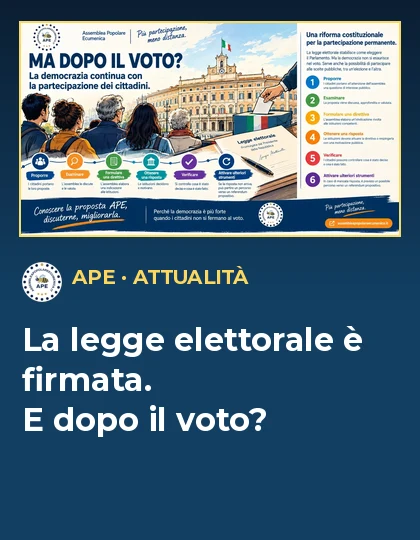
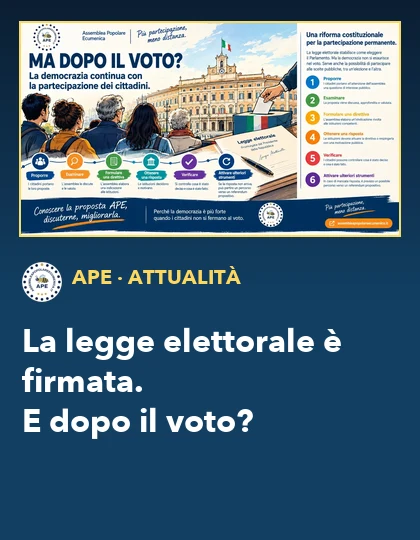
Attualità: chi controlla davvero il potere? (fonti verificate, miniatura del generatore)

Changed region(s): [[0.0619, 0.5926, 0.8667, 0.8296], [0.1857, 0.4741, 0.5881, 0.5333]]

diff --git a/rete.html b/rete.html
@@ -287,6 +287,6 @@ p,li{text-wrap:pretty}
 </div>
 </article>
 </main>
-<footer class="ape-piede"><p><strong>APE &mdash; Assemblea Popolare Ecumenica</strong><br>Un progetto aperto a tutti: cittadini, associazioni, movimenti, comitati, con peso paritario.</p><p>La proposta &egrave; pubblica e appartiene a chi la sottoscrive: chi firma il <a href="patto.html">Patto fondativo</a> ne diventa co-fondatore, alla pari di tutti.</p><p class="ape-piccolo"><a href="progetto.html">Il progetto per intero</a> &middot; <a href="patto.html">Il Patto</a> &middot; <a href="albo.html">L&rsquo;Albo</a> &middot; <a href="./#documenti">Documenti</a> &middot; <a href="rete.html#aderisci">Aderisci</a></p><p class="ape-piccolo">Contatti: <a href="mailto:info@assembleapopolareecumenica.it">info@assembleapopolareecumenica.it</a> &middot; <a href="https://www.facebook.com/profile.php?id=61595012680370" target="_blank" rel="noopener noreferrer">Seguici su Facebook</a> &middot; <a href="https://partecipazione-attiva.it/privacy.html">Privacy e informativa sull&rsquo;adesione</a> &middot; Questo sito non usa cookie di profilazione n&eacute; tracciatori.</p><p class="ape-piccolo">Aggiornato il 08/10/2026 &middot; &copy; 2026</p></footer>
+<footer class="ape-piede"><p><strong>APE &mdash; Assemblea Popolare Ecumenica</strong><br>Un progetto aperto a tutti: cittadini, associazioni, movimenti, comitati, con peso paritario.</p><p>La proposta &egrave; pubblica e appartiene a chi la sottoscrive: chi firma il <a href="patto.html">Patto fondativo</a> ne diventa co-fondatore, alla pari di tutti.</p><p class="ape-piccolo"><a href="progetto.html">Il progetto per intero</a> &middot; <a href="patto.html">Il Patto</a> &middot; <a href="albo.html">L&rsquo;Albo</a> &middot; <a href="./#documenti">Documenti</a> &middot; <a href="rete.html#aderisci">Aderisci</a></p><p class="ape-piccolo">Contatti: <a href="mailto:info@assembleapopolareecumenica.it">info@assembleapopolareecumenica.it</a> &middot; <a href="https://www.facebook.com/profile.php?id=61595012680370" target="_blank" rel="noopener noreferrer">Seguici su Facebook</a> &middot; <a href="https://partecipazione-attiva.it/privacy.html">Privacy e informativa sull&rsquo;adesione</a> &middot; Questo sito non usa cookie di profilazione n&eacute; tracciatori.</p><p class="ape-piccolo">Aggiornato il 10/10/2026 &middot; &copy; 2026</p></footer>
 </body>
 </html>

diff --git a/index.html b/index.html
@@ -156,6 +156,6 @@ p,li{text-wrap:pretty}
 
 </article>
 </main>
-<footer class="ape-piede"><p><strong>APE &mdash; Assemblea Popolare Ecumenica</strong><br>Un progetto aperto a tutti: cittadini, associazioni, movimenti, comitati, con peso paritario.</p><p>La proposta &egrave; pubblica e appartiene a chi la sottoscrive: chi firma il <a href="patto.html">Patto fondativo</a> ne diventa co-fondatore, alla pari di tutti.</p><p class="ape-piccolo"><a href="progetto.html">Il progetto per intero</a> &middot; <a href="patto.html">Il Patto</a> &middot; <a href="albo.html">L&rsquo;Albo</a> &middot; <a href="./#documenti">Documenti</a> &middot; <a href="rete.html#aderisci">Aderisci</a></p><p class="ape-piccolo">Contatti: <a href="mailto:info@assembleapopolareecumenica.it">info@assembleapopolareecumenica.it</a> &middot; <a href="https://www.facebook.com/profile.php?id=61595012680370" target="_blank" rel="noopener noreferrer">Seguici su Facebook</a> &middot; <a href="https://partecipazione-attiva.it/privacy.html">Privacy e informativa sull&rsquo;adesione</a> &middot; Questo sito non usa cookie di profilazione n&eacute; tracciatori.</p><p class="ape-piccolo">Aggiornato il 08/10/2026 &middot; &copy; 2026</p></footer>
+<footer class="ape-piede"><p><strong>APE &mdash; Assemblea Popolare Ecumenica</strong><br>Un progetto aperto a tutti: cittadini, associazioni, movimenti, comitati, con peso paritario.</p><p>La proposta &egrave; pubblica e appartiene a chi la sottoscrive: chi firma il <a href="patto.html">Patto fondativo</a> ne diventa co-fondatore, alla pari di tutti.</p><p class="ape-piccolo"><a href="progetto.html">Il progetto per intero</a> &middot; <a href="patto.html">Il Patto</a> &middot; <a href="albo.html">L&rsquo;Albo</a> &middot; <a href="./#documenti">Documenti</a> &middot; <a href="rete.html#aderisci">Aderisci</a></p><p class="ape-piccolo">Contatti: <a href="mailto:info@assembleapopolareecumenica.it">info@assembleapopolareecumenica.it</a> &middot; <a href="https://www.facebook.com/profile.php?id=61595012680370" target="_blank" rel="noopener noreferrer">Seguici su Facebook</a> &middot; <a href="https://partecipazione-attiva.it/privacy.html">Privacy e informativa sull&rsquo;adesione</a> &middot; Questo sito non usa cookie di profilazione n&eacute; tracciatori.</p><p class="ape-piccolo">Aggiornato il 10/10/2026 &middot; &copy; 2026</p></footer>
 </body>
 </html>

diff --git a/progetto.html b/progetto.html
@@ -190,6 +190,6 @@ p,li{text-wrap:pretty}
 </article>
 
 </main>
-<footer class="ape-piede"><p><strong>APE &mdash; Assemblea Popolare Ecumenica</strong><br>Un progetto aperto a tutti: cittadini, associazioni, movimenti, comitati, con peso paritario.</p><p>La proposta &egrave; pubblica e appartiene a chi la sottoscrive: chi firma il <a href="patto.html">Patto fondativo</a> ne diventa co-fondatore, alla pari di tutti.</p><p class="ape-piccolo"><a href="progetto.html">Il progetto per intero</a> &middot; <a href="patto.html">Il Patto</a> &middot; <a href="albo.html">L&rsquo;Albo</a> &middot; <a href="./#documenti">Documenti</a> &middot; <a href="rete.html#aderisci">Aderisci</a></p><p class="ape-piccolo">Contatti: <a href="mailto:info@assembleapopolareecumenica.it">info@assembleapopolareecumenica.it</a> &middot; <a href="https://www.facebook.com/profile.php?id=61595012680370" target="_blank" rel="noopener noreferrer">Seguici su Facebook</a> &middot; <a href="https://partecipazione-attiva.it/privacy.html">Privacy e informativa sull&rsquo;adesione</a> &middot; Questo sito non usa cookie di profilazione n&eacute; tracciatori.</p><p class="ape-piccolo">Aggiornato il 08/10/2026 &middot; &copy; 2026</p></footer>
+<footer class="ape-piede"><p><strong>APE &mdash; Assemblea Popolare Ecumenica</strong><br>Un progetto aperto a tutti: cittadini, associazioni, movimenti, comitati, con peso paritario.</p><p>La proposta &egrave; pubblica e appartiene a chi la sottoscrive: chi firma il <a href="patto.html">Patto fondativo</a> ne diventa co-fondatore, alla pari di tutti.</p><p class="ape-piccolo"><a href="progetto.html">Il progetto per intero</a> &middot; <a href="patto.html">Il Patto</a> &middot; <a href="albo.html">L&rsquo;Albo</a> &middot; <a href="./#documenti">Documenti</a> &middot; <a href="rete.html#aderisci">Aderisci</a></p><p class="ape-piccolo">Contatti: <a href="mailto:info@assembleapopolareecumenica.it">info@assembleapopolareecumenica.it</a> &middot; <a href="https://www.facebook.com/profile.php?id=61595012680370" target="_blank" rel="noopener noreferrer">Seguici su Facebook</a> &middot; <a href="https://partecipazione-attiva.it/privacy.html">Privacy e informativa sull&rsquo;adesione</a> &middot; Questo sito non usa cookie di profilazione n&eacute; tracciatori.</p><p class="ape-piccolo">Aggiornato il 10/10/2026 &middot; &copy; 2026</p></footer>
 </body>
 </html>

diff --git a/albo.html b/albo.html
@@ -116,6 +116,6 @@ p,li{text-wrap:pretty}
 </script>
 
 </main>
-<footer class="ape-piede"><p><strong>APE &mdash; Assemblea Popolare Ecumenica</strong><br>Un progetto aperto a tutti: cittadini, associazioni, movimenti, comitati, con peso paritario.</p><p>La proposta &egrave; pubblica e appartiene a chi la sottoscrive: chi firma il <a href="patto.html">Patto fondativo</a> ne diventa co-fondatore, alla pari di tutti.</p><p class="ape-piccolo"><a href="progetto.html">Il progetto per intero</a> &middot; <a href="patto.html">Il Patto</a> &middot; <a href="albo.html">L&rsquo;Albo</a> &middot; <a href="./#documenti">Documenti</a> &middot; <a href="rete.html#aderisci">Aderisci</a></p><p class="ape-piccolo">Contatti: <a href="mailto:info@assembleapopolareecumenica.it">info@assembleapopolareecumenica.it</a> &middot; <a href="https://www.facebook.com/profile.php?id=61595012680370" target="_blank" rel="noopener noreferrer">Seguici su Facebook</a> &middot; <a href="https://partecipazione-attiva.it/privacy.html">Privacy e informativa sull&rsquo;adesione</a> &middot; Questo sito non usa cookie di profilazione n&eacute; tracciatori.</p><p class="ape-piccolo">Aggiornato il 08/10/2026 &middot; &copy; 2026</p></footer>
+<footer class="ape-piede"><p><strong>APE &mdash; Assemblea Popolare Ecumenica</strong><br>Un progetto aperto a tutti: cittadini, associazioni, movimenti, comitati, con peso paritario.</p><p>La proposta &egrave; pubblica e appartiene a chi la sottoscrive: chi firma il <a href="patto.html">Patto fondativo</a> ne diventa co-fondatore, alla pari di tutti.</p><p class="ape-piccolo"><a href="progetto.html">Il progetto per intero</a> &middot; <a href="patto.html">Il Patto</a> &middot; <a href="albo.html">L&rsquo;Albo</a> &middot; <a href="./#documenti">Documenti</a> &middot; <a href="rete.html#aderisci">Aderisci</a></p><p class="ape-piccolo">Contatti: <a href="mailto:info@assembleapopolareecumenica.it">info@assembleapopolareecumenica.it</a> &middot; <a href="https://www.facebook.com/profile.php?id=61595012680370" target="_blank" rel="noopener noreferrer">Seguici su Facebook</a> &middot; <a href="https://partecipazione-attiva.it/privacy.html">Privacy e informativa sull&rsquo;adesione</a> &middot; Questo sito non usa cookie di profilazione n&eacute; tracciatori.</p><p class="ape-piccolo">Aggiornato il 10/10/2026 &middot; &copy; 2026</p></footer>
 </body>
 </html>

diff --git a/patto.html b/patto.html
@@ -126,6 +126,6 @@ p,li{text-wrap:pretty}
 </div>
 
 </main>
-<footer class="ape-piede"><p><strong>APE &mdash; Assemblea Popolare Ecumenica</strong><br>Un progetto aperto a tutti: cittadini, associazioni, movimenti, comitati, con peso paritario.</p><p>La proposta &egrave; pubblica e appartiene a chi la sottoscrive: chi firma il <a href="patto.html">Patto fondativo</a> ne diventa co-fondatore, alla pari di tutti.</p><p class="ape-piccolo"><a href="progetto.html">Il progetto per intero</a> &middot; <a href="patto.html">Il Patto</a> &middot; <a href="albo.html">L&rsquo;Albo</a> &middot; <a href="./#documenti">Documenti</a> &middot; <a href="rete.html#aderisci">Aderisci</a></p><p class="ape-piccolo">Contatti: <a href="mailto:info@assembleapopolareecumenica.it">info@assembleapopolareecumenica.it</a> &middot; <a href="https://www.facebook.com/profile.php?id=61595012680370" target="_blank" rel="noopener noreferrer">Seguici su Facebook</a> &middot; <a href="https://partecipazione-attiva.it/privacy.html">Privacy e informativa sull&rsquo;adesione</a> &middot; Questo sito non usa cookie di profilazione n&eacute; tracciatori.</p><p class="ape-piccolo">Aggiornato il 08/10/2026 &middot; &copy; 2026</p></footer>
+<footer class="ape-piede"><p><strong>APE &mdash; Assemblea Popolare Ecumenica</strong><br>Un progetto aperto a tutti: cittadini, associazioni, movimenti, comitati, con peso paritario.</p><p>La proposta &egrave; pubblica e appartiene a chi la sottoscrive: chi firma il <a href="patto.html">Patto fondativo</a> ne diventa co-fondatore, alla pari di tutti.</p><p class="ape-piccolo"><a href="progetto.html">Il progetto per intero</a> &middot; <a href="patto.html">Il Patto</a> &middot; <a href="albo.html">L&rsquo;Albo</a> &middot; <a href="./#documenti">Documenti</a> &middot; <a href="rete.html#aderisci">Aderisci</a></p><p class="ape-piccolo">Contatti: <a href="mailto:info@assembleapopolareecumenica.it">info@assembleapopolareecumenica.it</a> &middot; <a href="https://www.facebook.com/profile.php?id=61595012680370" target="_blank" rel="noopener noreferrer">Seguici su Facebook</a> &middot; <a href="https://partecipazione-attiva.it/privacy.html">Privacy e informativa sull&rsquo;adesione</a> &middot; Questo sito non usa cookie di profilazione n&eacute; tracciatori.</p><p class="ape-piccolo">Aggiornato il 10/10/2026 &middot; &copy; 2026</p></footer>
 </body>
 </html>

diff --git a/attualita.html b/attualita.html
@@ -108,7 +108,7 @@ p,li{text-wrap:pretty}
 </ol>
 <p>L&rsquo;Osservatorio <strong>non esiste ancora</strong>: &egrave; una proposta da costruire, con criteri pubblici, verifiche documentali e risorse adeguate. Il suo valore non starebbe nel dire chi ha ragione, ma nel mettere i cittadini in condizione di giudicare da soli.</p>
 <a class="at-cta" href="https://partecipazione-attiva.it/legge-elettorale-chi-controlla-il-potere.html">Leggi l&rsquo;articolo completo, con le fonti &rarr;</a>
-<p class="at-fonte">Fonti citate nell&rsquo;articolo completo: Senato (art. 67 Cost.), Openpolis, Open, Il Fatto Quotidiano, La Repubblica, ANSA. L&rsquo;APE oggi &egrave; una proposta, non &egrave; ancora legge. <a href="rete.html">Rete APE</a>.</p>
+<p class="at-fonte">Fonti citate nell&rsquo;articolo completo: Senato (art. 67 Cost.), Openpolis, Open, Il Fatto Quotidiano, Il Post, ANSA. L&rsquo;APE oggi &egrave; una proposta, non &egrave; ancora legge. <a href="rete.html">Rete APE</a>.</p>
 </article>
 <article class="at-voce" id="legge-elettorale-firmata">
 <p class="at-data">10 ottobre 2026</p>

diff --git a/_contenuti/attualita.html b/_contenuti/attualita.html
@@ -42,7 +42,7 @@
 </ol>
 <p>L&rsquo;Osservatorio <strong>non esiste ancora</strong>: &egrave; una proposta da costruire, con criteri pubblici, verifiche documentali e risorse adeguate. Il suo valore non starebbe nel dire chi ha ragione, ma nel mettere i cittadini in condizione di giudicare da soli.</p>
 <a class="at-cta" href="https://partecipazione-attiva.it/legge-elettorale-chi-controlla-il-potere.html">Leggi l&rsquo;articolo completo, con le fonti &rarr;</a>
-<p class="at-fonte">Fonti citate nell&rsquo;articolo completo: Senato (art. 67 Cost.), Openpolis, Open, Il Fatto Quotidiano, La Repubblica, ANSA. L&rsquo;APE oggi &egrave; una proposta, non &egrave; ancora legge. <a href="rete.html">Rete APE</a>.</p>
+<p class="at-fonte">Fonti citate nell&rsquo;articolo completo: Senato (art. 67 Cost.), Openpolis, Open, Il Fatto Quotidiano, Il Post, ANSA. L&rsquo;APE oggi &egrave; una proposta, non &egrave; ancora legge. <a href="rete.html">Rete APE</a>.</p>
 </article>
 <article class="at-voce" id="legge-elettorale-firmata">
 <p class="at-data">10 ottobre 2026</p>
